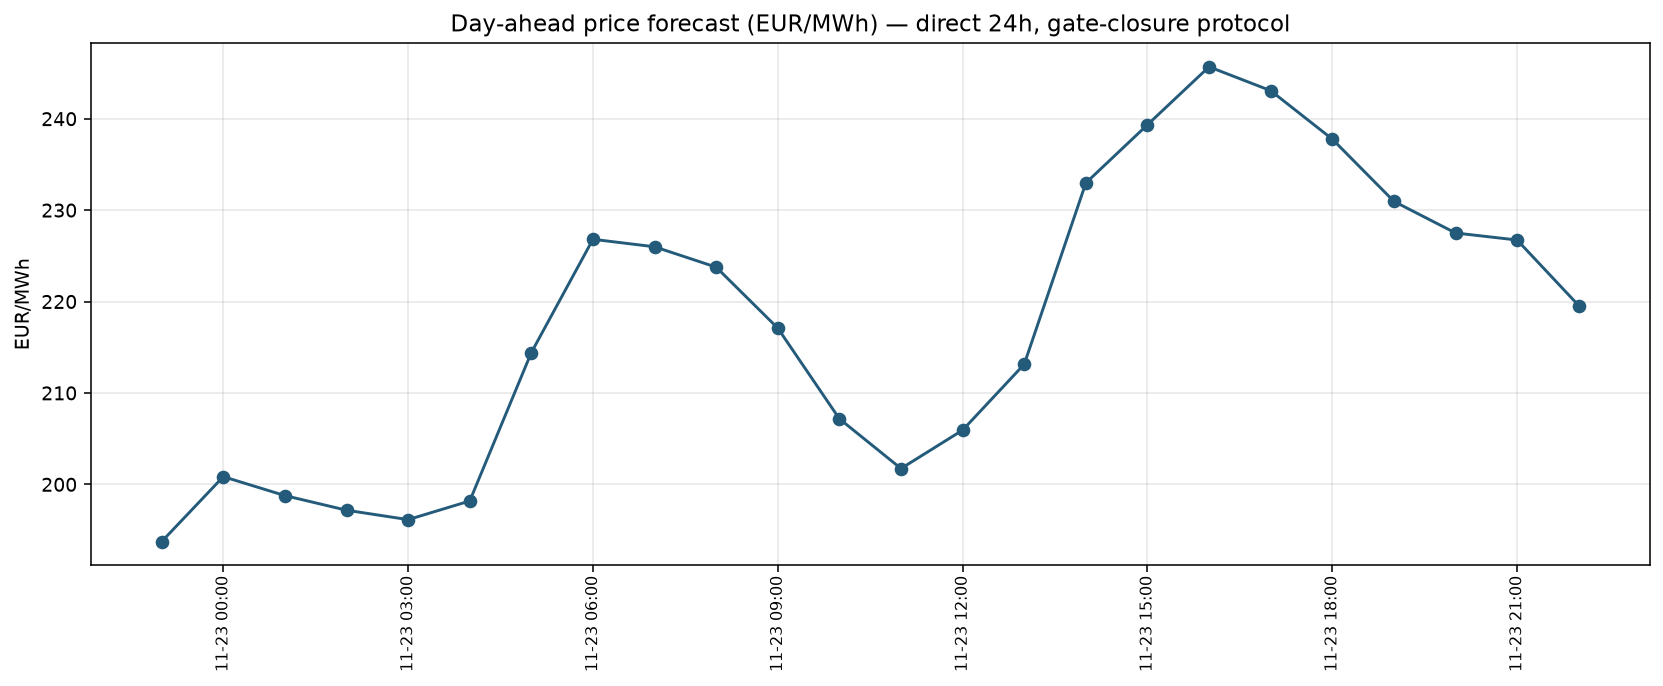
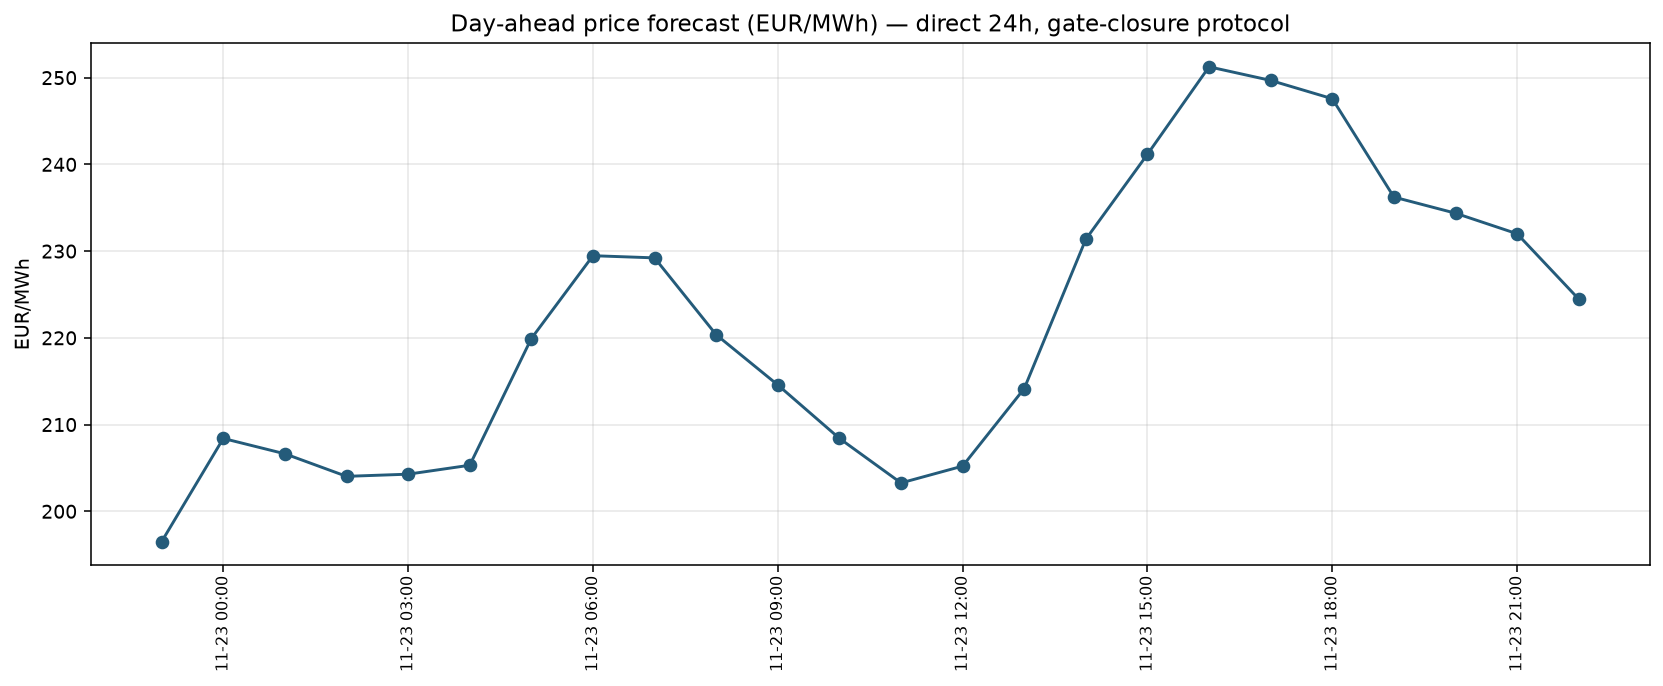
chore: daily forecast and evaluation update

diff --git a/README.md b/README.md
@@ -61,7 +61,7 @@ Entry points: `scripts/run_daily_forecast.py` (live), `scripts/run_rolling_eval.
 
 ## 5. Results
 
-_Auto-generated by `scripts/run_ablation.py` / `scripts/run_rolling_eval.py` - last update 2026-11-22 09:51 UTC._
+_Auto-generated by `scripts/run_ablation.py` / `scripts/run_rolling_eval.py` - last update 2026-11-22 10:00 UTC._
 
 ### 5.1 Backtest ablation (gate-closure protocol)
 
@@ -179,7 +179,7 @@ Code: MIT. Market data remain under their original terms. SMARD-related series: 
 
 ## Live daily forecast
 
-**Generated (UTC):** 2026-11-22 09:50  
+**Generated (UTC):** 2026-11-22 10:00  
 **Based on data up to (UTC):** 2026-11-22 22:00  
 **Forecast horizon (UTC):** 2026-11-22 23:00 to 2026-11-23 22:00  
 **Protocol:** gate-closure features (lags >= 24 h, complete-day context) + external_shift = 24 + ENTSO-E load (no shift) + direct 24h + shrunk hourly bias correction
@@ -192,30 +192,30 @@ Code: MIT. Market data remain under their original terms. SMARD-related series: 
 
 | Hour (UTC) | Forecast (EUR/MWh) | Bias |
 |------------|--------------------|------|
-| 2026-11-22 23:00 | 193.74 | 0.51 |
-| 2026-11-23 00:00 | 200.84 | 1.66 |
-| 2026-11-23 01:00 | 198.77 | 2.17 |
-| 2026-11-23 02:00 | 197.17 | 1.84 |
-| 2026-11-23 03:00 | 196.14 | 2.76 |
-| 2026-11-23 04:00 | 198.18 | 2.03 |
-| 2026-11-23 05:00 | 214.42 | -1.23 |
-| 2026-11-23 06:00 | 226.81 | -1.37 |
-| 2026-11-23 07:00 | 225.99 | -1.64 |
-| 2026-11-23 08:00 | 223.76 | -4.48 |
-| 2026-11-23 09:00 | 217.09 | -5.89 |
-| 2026-11-23 10:00 | 207.17 | -5.33 |
-| 2026-11-23 11:00 | 201.73 | -3.60 |
-| 2026-11-23 12:00 | 205.93 | -1.97 |
-| 2026-11-23 13:00 | 213.14 | -0.93 |
-| 2026-11-23 14:00 | 232.97 | -1.35 |
-| 2026-11-23 15:00 | 239.34 | -0.75 |
-| 2026-11-23 16:00 | 245.68 | -2.49 |
-| 2026-11-23 17:00 | 243.07 | -4.17 |
-| 2026-11-23 18:00 | 237.77 | -4.27 |
-| 2026-11-23 19:00 | 230.96 | -3.28 |
-| 2026-11-23 20:00 | 227.50 | -5.11 |
-| 2026-11-23 21:00 | 226.73 | -6.10 |
-| 2026-11-23 22:00 | 219.56 | -6.31 |
+| 2026-11-22 23:00 | 196.51 | 0.51 |
+| 2026-11-23 00:00 | 208.40 | 1.66 |
+| 2026-11-23 01:00 | 206.63 | 2.17 |
+| 2026-11-23 02:00 | 204.03 | 1.84 |
+| 2026-11-23 03:00 | 204.28 | 2.76 |
+| 2026-11-23 04:00 | 205.31 | 2.03 |
+| 2026-11-23 05:00 | 219.92 | -1.23 |
+| 2026-11-23 06:00 | 229.47 | -1.37 |
+| 2026-11-23 07:00 | 229.22 | -1.64 |
+| 2026-11-23 08:00 | 220.36 | -4.48 |
+| 2026-11-23 09:00 | 214.57 | -5.89 |
+| 2026-11-23 10:00 | 208.41 | -5.33 |
+| 2026-11-23 11:00 | 203.27 | -3.60 |
+| 2026-11-23 12:00 | 205.21 | -1.97 |
+| 2026-11-23 13:00 | 214.15 | -0.93 |
+| 2026-11-23 14:00 | 231.37 | -1.35 |
+| 2026-11-23 15:00 | 241.16 | -0.75 |
+| 2026-11-23 16:00 | 251.25 | -2.49 |
+| 2026-11-23 17:00 | 249.68 | -4.17 |
+| 2026-11-23 18:00 | 247.57 | -4.27 |
+| 2026-11-23 19:00 | 236.23 | -3.28 |
+| 2026-11-23 20:00 | 234.37 | -5.11 |
+| 2026-11-23 21:00 | 232.00 | -6.10 |
+| 2026-11-23 22:00 | 224.47 | -6.31 |
 
 ### Previous forecasts vs realized prices
 
